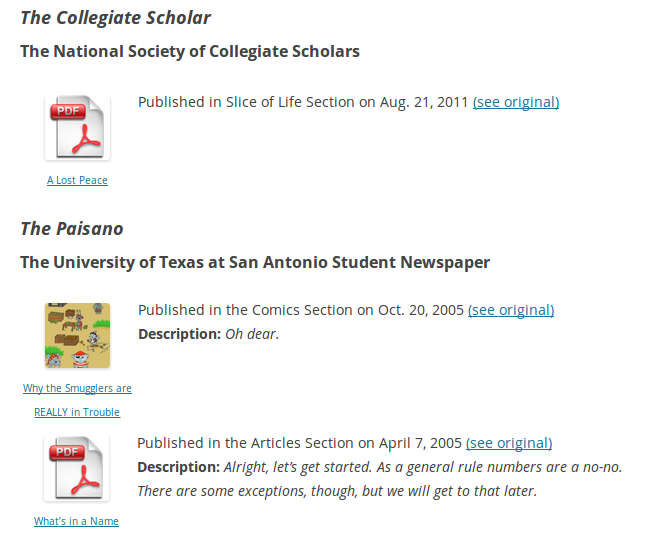
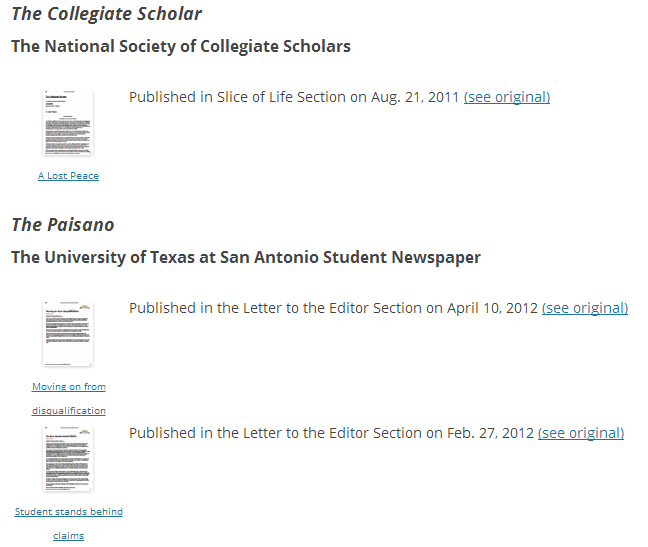
Bringing trunk up to version 2.0
git-svn-id: http://plugins.svn.wordpress.org/document-gallery@880038 b8457f37-d9ea-0310-8a92-e5e31aec5664

diff --git a/trunk/inc/class-document.php b/trunk/inc/class-document.php
@@ -60,7 +60,10 @@ class DG_Document {
     * @return string
     */
    public function __toString() {
-      $icon = sprintf(self::$img_string, DG_Thumber::getThumbnail($this->ID),
+      $thumb = $this->gallery->useFancyThumbs()
+          ? DG_Thumber::getThumbnail($this->ID)
+          : DG_Thumber::getDefaultThumbnail($this->ID);
+      $icon = sprintf(self::$img_string, $thumb,
           $this->title_attribute, $this->title_attribute);
       $core = sprintf(self::$doc_icon, $this->link, $icon, $this->title);
 

diff --git a/trunk/inc/class-setup.php b/trunk/inc/class-setup.php
@@ -26,7 +26,7 @@ class DG_Setup {
                   'attachment_pg'  => false,
                   'descriptions'   => false,
                   // include thumbnail of actual document in gallery display
-                  'fancy'          => false,
+                  'fancy'          => true,
                   // comma-separated list of attachment ids
                   'ids'            => false,
                   // if true, all images attached to current page will be included also

diff --git a/trunk/inc/class-thumber.php b/trunk/inc/class-thumber.php
@@ -767,8 +767,13 @@ class DG_Thumber {
     * @param str $entry
     */
    private static function writeLog($entry) {
-      if (WP_DEBUG) {
-         echo('<!-- DG: ' . print_r($entry, true) . ' -->' . PHP_EOL);
+      if (defined('WP_DEBUG') && WP_DEBUG) {
+         $err = 'DG: ' . print_r($entry, true) . PHP_EOL;
+         if (defined('ERRORLOGFILE')) {
+            error_log($err, 3, ERRORLOGFILE);
+         } else {
+            error_log($err);
+         }
       }
    }
 

diff --git a/trunk/inc/class-gallery.php b/trunk/inc/class-gallery.php
@@ -37,6 +37,10 @@ class DG_Gallery {
       return $this->atts['attachment_pg'];
    }
 
+   public function useFancyThumbs() {
+      return $this->atts['fancy'];
+   }
+
    /**
     * Returns whether descriptions should be included in output.
     * @return bool
